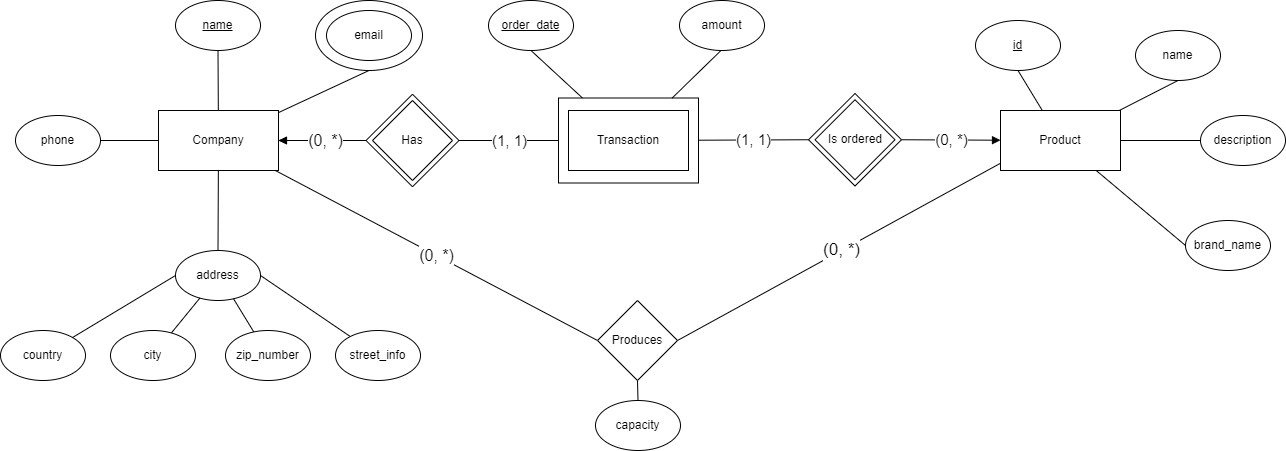
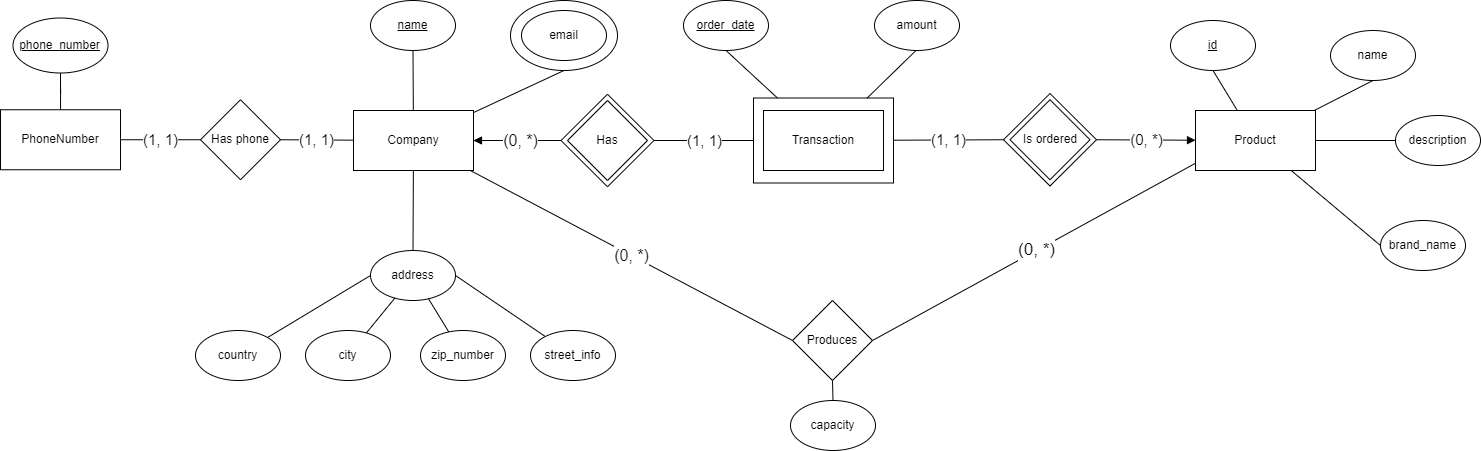
Add Relation Model
Choose ER model

diff --git a/docs/Relations.md b/docs/Relations.md
@@ -1,0 +1,35 @@
+Product
+============
+- *Product (id, name, description, brand_name)*
+- ***PRIMARY KEY (Product)** = \<id\>*
+- ***Product (name)** cannot be NULL*
+
+Company
+============
+- *Company (name, phone_number, country, city, zip_code, street_info)*
+- ***PRIMARY KEY (Company)** = \<name\>*
+- ***CANDIDATE KEY (Company)** = <phone_number>*
+- ***Company (phone_number)** cannot be NULL*
+
+CompanyEmail
+============
+- *CompanyEmail (company_name, email)*
+- ***PRIMARY KEY (CompanyEmail)** = <company_name, email>*
+- ***FOREIGN KEY CompanyEmail(company_name)** REFERENCES Company(name)*
+
+Produce
+============
+- *Produce (company_name, product_name, capacity)*
+- ***PRIMARY KEY (Produce)** = <company_name, product_id>*
+- ***FOREIGN KEY Produce (company_name)** REFERENCES Company (name)*
+- ***FOREIGN KEY Produce (product_id)** REFERENCES Product (id)*
+- ***Produce (capacity)** cannot be NULL*
+
+Transaction
+============
+- *Transaction (company_name, product_id, order_date, amount)*
+- ***PRIMARY KEY (Transaction)** = <company_name, product_id, order_date>*
+- ***FOREIGN KEY Transaction (company_name)** REFERENCES Company (name)*
+- ***FOREIGN KEY Transaction (product_id)** REFERENCES Product (id)*
+- ***Transaction (capacity)** cannot be null*
+

diff --git a/README.md b/README.md
@@ -1,4 +1,4 @@
-#Homework 1
+# Homework 1
 In homework 1, we are going to design a system to manage supply-chain of customer companies.
 Some classes will already be provided with the desired methods. 
 You need to implement all functionalities listed in Requirements section.
